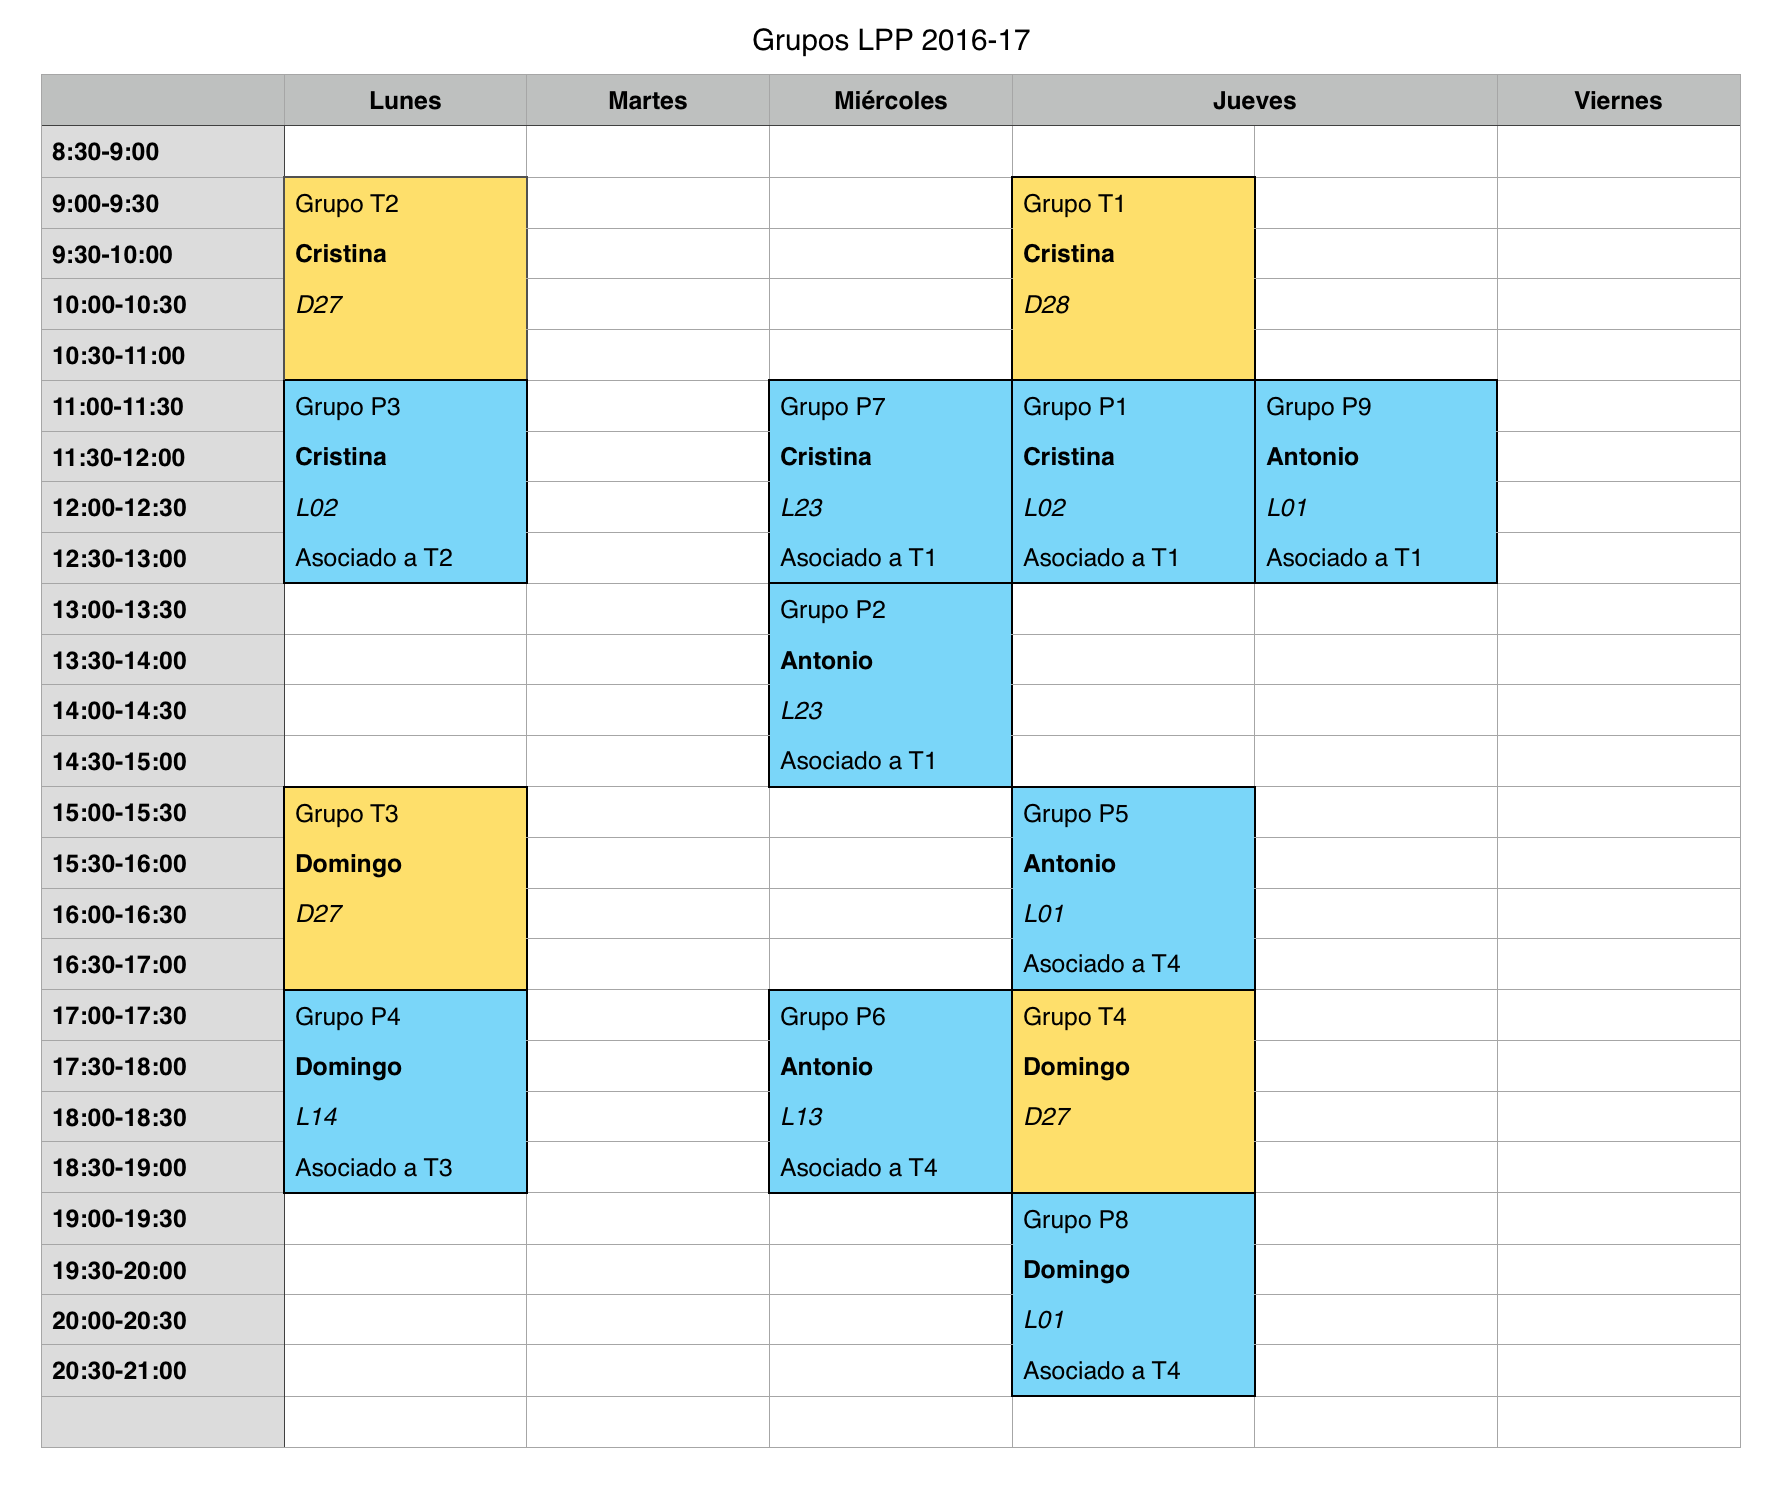
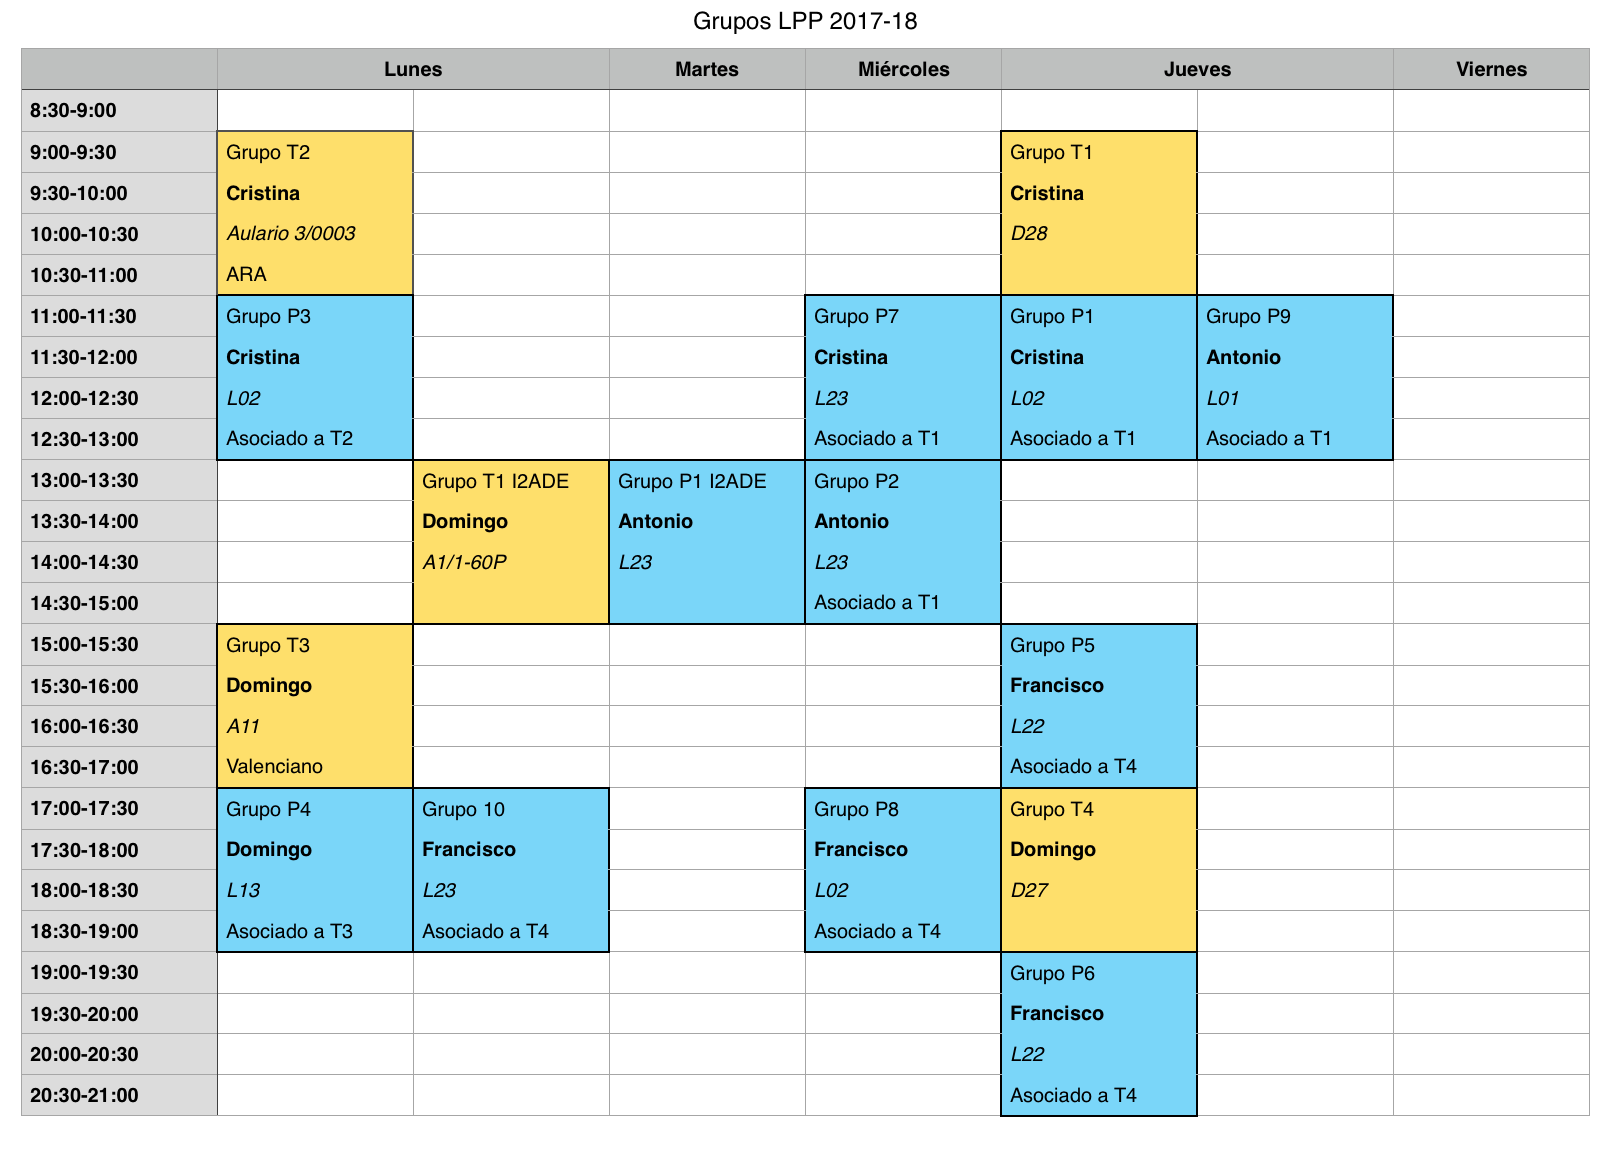
Cambios curso 2017-18

diff --git a/teoria/tema00-descripcion-asignatura/tema00-descripcion-asignatura.md b/teoria/tema00-descripcion-asignatura/tema00-descripcion-asignatura.md
@@ -1,8 +1,8 @@
 
 ## Lenguajes y Paradigmas de Programación
 
-Toda la información está disponible en el [sitio Moodle de LPP](https://moodle2016-17.ua.es/moodle/course/view.php?id=942) y en la
-[ficha del campus virtual](http://cv1.cpd.ua.es/ConsPlanesEstudio/cvFichaAsiEEES.asp?wCodEst=C203&wcodasi=34017&wLengua=C&scaca=2016-17).
+Toda la información está disponible en el [sitio Moodle de LPP](https://moodle2017-18.ua.es/moodle/course/view.php?id=828) y en la
+[ficha del campus virtual](http://cv1.cpd.ua.es/ConsPlanesEstudio/cvFichaAsiEEES.asp?wCodEst=C203&wcodasi=34017&wLengua=C&scaca=2017-18).
 
 
 ### Datos académicos de la asignatura
@@ -12,16 +12,22 @@ Toda la información está disponible en el [sitio Moodle de LPP](https://moodle
 prácticas de 2 h. a la semana  
 **Profesores**:  
 
-* Antonio Botía ([e-mail](mailto:abotia@dccia.ua.es)): Grupos de prácticas: 2, 5, 6, y 9.
-* Domingo Gallardo ([e-mail](mailto:domingo.gallardo@ua.es)): Profesor coordinador de la asignatura. Grupos de teoría: 3 y 4. Grupos de prácticas: 4 y 8.
-* Cristina Pomares ([e-mail](mailto:cpomares@ua.es)): Grupos de teoría: 1 y 2. Grupos de prácticas: 1, 3 y 7.
+* Antonio Botía ([e-mail](mailto:abotia@dccia.ua.es)): Grupos de
+  prácticas: 2, 9 y 40
+* Domingo Gallardo ([e-mail](mailto:domingo.gallardo@ua.es)): Profesor
+  coordinador de la asignatura. Grupos de teoría: 3, 4 y 40. Grupos de
+  prácticas: 4 y 8. 
+* Francisco Martínez ([e-mail](mailto:fmartine@ua.es)): Grupos de
+  prácticas: 5, 6, 8 y 10 
+* Cristina Pomares ([e-mail](mailto:cpomares@ua.es)): Grupos de
+  teoría: 1 y 2. Grupos de prácticas: 1, 3, 4 y 7.
 
 ### Recursos de la asignatura
 
-* [Sitio Moodle](https://moodle2016-17.ua.es/moodle/course/view.php?id=942)
+* [Sitio Moodle](https://moodle2017-18.ua.es/moodle/course/view.php?id=828)
   abierto y accesible a toda la comunidad educativa, contiene los
   apuntes, transparencias, prácticas y otros materiales docentes
-* [Foro de consultas y anuncios](https://moodle2016-17.ua.es/moodle/mod/forum/view.php?id=8086)
+* [Foro de consultas y anuncios](https://moodle2017-18.ua.es/moodle/mod/forum/view.php?id=8429)
   en el sitio Moodle (sólo accesible a estudiantes)
 
 ### Objetivos y competencias
@@ -71,7 +77,8 @@ dominios concretos.
   programación. Abstracción. Paradigmas de programación. Compiladores
   e intérpretes.
 * Tema 2. **Programación Funcional**: Características e historia del
-  paradigma de Programación Funcional. Características declarativas
+  paradigma de Programación Funcional. Diferencias con el paradigma
+  imperativo. Características declarativas
   del paradigma funcional. Definición de funciones. Funciones como
   datos de primer orden. La forma especial lambda. Ámbito de variables
   y closures. Datos compuestos en Scheme: parejas. Construcción,
@@ -82,18 +89,13 @@ dominios concretos.
   iterativos. Memoization. Recursión y gráficos de tortuga. 
 * Tema 4. **Estructuras recursivas**: Estructuras de datos recursivas:
   listas estructuradas y árboles.
-* Tema 5. **Programación Imperativa**: Historia del paradigma de
-  programación imperativo. Características principales. Datos
-  mutables. Datos mutables en Scheme. Estructuras de datos mutables en
-  Scheme. Ámbito de variables dinámico y modelo de entornos en
-  Scheme. Estado local.
-* Tema 6. **Programación funcional en Swift**: Lenguajes
+* Tema 5. **Programación funcional en Swift**: Lenguajes
   multiparadigma. Programación funcional en Swift. Valores
   opcionales. Listas. Recursión pura y recursión por la
   cola. Funciones como datos de primer orden. Clousures y funciones
   anónimas. Funciones de orden superior: mappings y filtros de
   colecciones.
-* Tema 7. **Programación Orientada a Objetos en Swift**: Características e
+* Tema 6. **Programación Orientada a Objetos en Swift**: Características e
   historia del paradigma de Programación Orientada a
   Objetos. Estructuras y clases en Swift. Herencia. Conceptos
   avanzados de POO en Swift: Extensiones, Protocolos y
@@ -110,7 +112,11 @@ Seminarios:
   arrays y colecciones. Recorriendo colecciones. Valores mutables e
   inmutables. Inicialización. Tipos de referencia y valor en Swift.
 
-El calendario de temas, prácticas y exámenes está disponible en Moodle.
+El calendario de temas, prácticas y exámenes se puede ver en la
+siguiente figura.
+
+<img src="imagenes/planificacion.png" width="800px"/>
+
 
 ### Prácticas
 
@@ -127,14 +133,21 @@ desarrollo:
   Apple, con conceptos modernos de programación funcional y
   programación orientada a objetos)
 
-Se realizarán 12 sesiones de ejercicios de prácticas de una semana de
+Se realizarán 10 sesiones de ejercicios de prácticas de una semana de
 duración y 2 seminarios de lenguajes. En las sesiones de ejercicios de
 prácticas se propondrá una hoja de ejercicios con 5 o 6 problemas de
-programación relacionados con el tema de la sesión de teoría. Los
-ejercicios se resolverán de forma individual y se entregarán en Moodle
-en la fecha indicada. Cuando todos los grupos hayan entregado las
-prácticas, se publicará una hoja de soluciones con distintas
-soluciones posibles para los ejercicios planteados.
+programación relacionados con el tema de la sesión de teoría. Durante
+la sesión de prácticas se deberán realizar los ejercicios marcados
+para realizar en clase. Al final de la clase de prácticas se realizará
+un **cuestionario de aprovechamiento** individual que será necesario
+superar para conseguir la calificación de aprovechamiento de las
+clases prácticas (un 10% de la nota total de la asignatura).
+
+El resto de ejercicios se realizarán en casa se resolverán de forma
+individual y se entregarán en Moodle en la fecha indicada. Cuando
+todos los grupos hayan entregado las prácticas, se publicará una hoja
+de soluciones con distintas soluciones posibles para los ejercicios
+planteados.
 
 Al comienzo de cada sesión de prácticas el profesor resolverá dudas
 sobre la última hoja de soluciones publicada. Después se trabajará en
@@ -144,29 +157,72 @@ problemas.
 
 ### Horarios
 
-La distribución de grupos del curso 2016-17 es la siguiente:
+La distribución de grupos del curso 2017-18 es la siguiente:
 
-<img src="imagenes/horario.png" width="700px"/>
+<img src="imagenes/horario.png" width="800px"/>
 
 ### Evaluación
 
 #### Convocatoria normal (evaluación continua)
 
-En la convocatoria de junio se realizará una evaluación continua con
-tres exámenes parciales, que ponderarán un 33%, 33% y 34% en la nota
-final.
 
-Las entregas de las prácticas no ponderarán para la calificación
-final, pero son esenciales para el aprendizaje de los conceptos y
-técnicas de la asignatura. Junto con la realización de las prácticas,
-también recomendamos encarecidamente la revisión de sus soluciones
-(que iremos publicando también semana a semana) y de los ejemplos
-de código presentados en teoría.
+La asignatura se divide en 3 bloques temáticos, todos ellos de igual
+duración, en los que se utilizará el lenguaje de programación que
+aparece entre paréntesis:
+
+1. Programación funcional (Scheme)
+2. Procesos y estructuras recursivas. (Scheme)
+3. Programación orientada a objetos (Swift)
+
+Para cada bloque temático se realizará un examen parcial escrito que
+ponderará un 30% (90% en total) en la nota final.
+ 
+El 10% restante para la nota final se obtendrá por el aprovechamiento
+de las clases de prácticas, según se explica a continuación.
+
+Las sesiones prácticas consistirán en ejercicios individuales de
+programación sobre los conceptos explicados en la clase de teoría de
+la semana anterior. Evidentemente, para poder realizar correctamente
+estos ejercicios se deberá haber estudiado los conceptos previamente
+explicados.
+
+Al final de cada sesión de prácticas se realizará un **cuestionario de
+aprovechamiento**, una pequeña prueba tipo test sobre los ejercicios
+realizados y los conceptos asociados. La nota final de aprovechamiento
+de las sesiones prácticas será la media de estas calificaciones,
+siempre que se supere la siguiente condición:
+
+**Se deberá aprobar como mínimo** :
+
+- **3 de los 5 cuestionarios del bloque 1**
+- **4 de los 6 cuestionarios del bloque 2 y 3.**
+
+En el caso en que no se alcance el mínimo indicado, la calificación de
+aprovechamiento de las prácticas será de 0.
+
+La calificación total será la media ponderada de las calificaciones de
+cada parcial y la media de los 11 cuestionarios de aprovechamiento,
+condicionado esto último a que se haya superado el mínimo de
+cuestionarios aprovados.
+
+Ejemplo 1: un estudiante que ha obtenido un 4’5, 5 y 4’5 en los
+exámenes parciales y un 8 en el aprovechamiento de las clases de
+prácticas obtendría de nota final:
+
+8 * 0'1 + 4’5 * 0’3 + 5 * 0’3 + 4’5 * 0’3 = 5
+
+Ejemplo 2: un estudiante con las mismas calificaciones en los
+parciales pero sin aprovechamiento de las clases de prácticas:
+
+ 
+0 + 4’5 * 0’3 + 5 * 0’3 + 4’5 * 0’3 = 4’2
+
 
 #### Convocatoria extraordinaria
 
-En la convocatoria de julio se realizará un examen final sobre todos
-los contenidos impartidos en el curso.
+En la convocatoria extraordinaria se realizará un examen final sobre
+todos los bloques temáticos cuya calificación representará el 100% de
+la nota de la asignatura.
 
 #### Consejos para aprender con éxito los contenidos de la asignatura
 
@@ -277,11 +333,11 @@ Para ampliar algunos conceptos se recomiendan los dos siguientes manuales:
 
 <img src="imagenes/swift-cover.png" width="170px"/>
 
-* Apple, *The Swift Programming Language (Swift 3.0.1)*, 2016
+* Apple, *The Swift Programming Language (Swift 4.0.3)*, 2018
 * [Web](https://developer.apple.com/library/ios/documentation/Swift/Conceptual/Swift_Programming_Language/)
 
 ----
 
-Lenguajes y Paradigmas de Programación, curso 2016-17  
+Lenguajes y Paradigmas de Programación, curso 2017-18  
 © Departamento Ciencia de la Computación e Inteligencia Artificial, Universidad de Alicante  
-Domingo Gallardo, Cristina Pomares, Antonio Botía
+Domingo Gallardo, Cristina Pomares, Antonio Botía, Francisco Martínez
